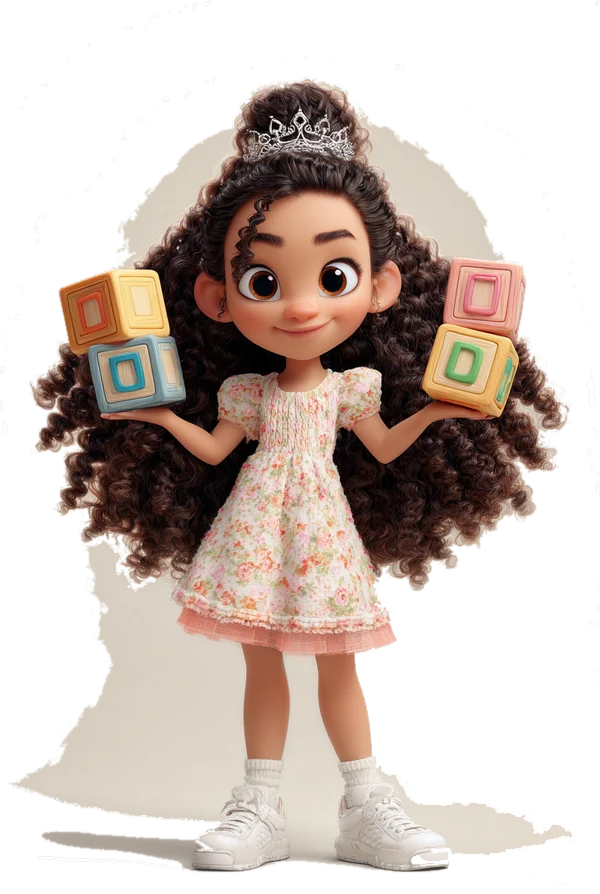
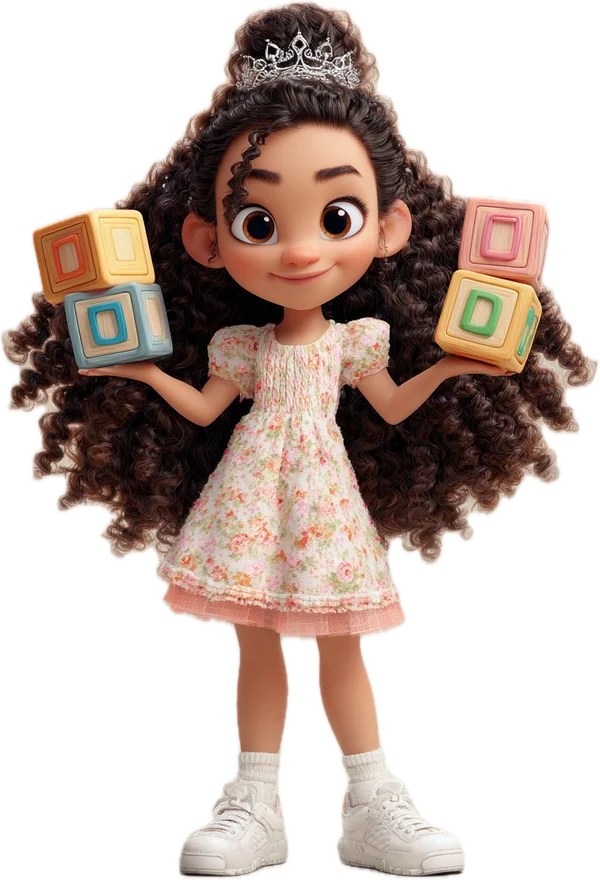
Refaz os 14 recortes da Lara com o Vision da Apple
O método anterior (Pillow: balde de tinta + componentes conectados + limiar
de luminância) decidia o que era fundo pela COR, e por isso comia roupa
clara, deixava crosta branca no cabelo e sobra de chão nos pés. Não é
ajustável por parâmetro — o método não sabe o que é sujeito.

Troca por VNGenerateForegroundInstanceMaskRequest (Vision), o mesmo motor
do "Remover Fundo" do Preview. Alfa suave, fio de cabelo preservado, roda
local em ~1 s por imagem.

- Origem de cada imagem reencontrada nas brutas por correlação de pixel
  (silhueta não serve: variações do mesmo prompt têm silhueta idêntica)
- Todas reconstruídas a 880px de altura, corte justo no sujeito
- img/ vai de 2,7 MB para 2,9 MB
- Ressalva: em lara-espaco2 o Vision descartou o planeta; ela ficou sozinha
- ferramentas/recorte.py e docs/RECORTE.md para refazer quando precisar

diff --git a/sw.js b/sw.js
@@ -1,7 +1,7 @@
 /* Service worker — o app abre offline e se atualiza sozinho.
    Estratégia: entrega o que está em cache na hora (rápido pra criança)
    e, em paralelo, baixa a versão nova pro próximo abrir. */
-var CACHE = 'mundo-da-lara-v21';
+var CACHE = 'mundo-da-lara-v22';
 var ARQUIVOS = [
   './',
   'index.html',

diff --git a/ferramentas/recorte.py b/ferramentas/recorte.py
@@ -1,0 +1,53 @@
+"""Recorte por Vision (Apple) — mesmo motor do 'Remover Fundo' do Preview.
+Devolve um alfa suave, com fio de cabelo, em vez de balde de tinta."""
+import sys, ctypes
+import Vision, Quartz
+from Foundation import NSURL
+from PIL import Image
+
+def matte(caminho):
+    url = NSURL.fileURLWithPath_(caminho)
+    handler = Vision.VNImageRequestHandler.alloc().initWithURL_options_(url, {})
+    req = Vision.VNGenerateForegroundInstanceMaskRequest.alloc().init()
+    ok, err = handler.performRequests_error_([req], None)
+    if not ok: raise RuntimeError('Vision falhou: %s' % err)
+    res = req.results()
+    if not res: raise RuntimeError('nenhum sujeito encontrado')
+    obs = res[0]
+    buf, err = obs.generateScaledMaskForImageForInstances_fromRequestHandler_error_(
+        obs.allInstances(), handler, None)
+    if buf is None: raise RuntimeError('mascara falhou: %s' % err)
+
+    Quartz.CVPixelBufferLockBaseAddress(buf, 1)
+    try:
+        w = Quartz.CVPixelBufferGetWidth(buf)
+        h = Quartz.CVPixelBufferGetHeight(buf)
+        stride = Quartz.CVPixelBufferGetBytesPerRow(buf)
+        fmt = Quartz.CVPixelBufferGetPixelFormatType(buf)
+        base = Quartz.CVPixelBufferGetBaseAddress(buf)
+        raw = bytes(base.as_buffer(stride * h))
+    finally:
+        Quartz.CVPixelBufferUnlockBaseAddress(buf, 1)
+
+    if fmt == 1278226534:                        # 'L00f' OneComponent32Float
+        import array
+        linhas = []
+        for y in range(h):
+            a = array.array('f'); a.frombytes(raw[y*stride:y*stride + w*4])
+            linhas.append(bytes(0 if v <= 0 else (255 if v >= 1 else int(v*255+.5)) for v in a))
+        m = Image.frombytes('L', (w, h), b''.join(linhas))
+    elif fmt == 1278226488:                      # 'L008' OneComponent8
+        m = Image.frombytes('L', (w, h), b''.join(raw[y*stride:y*stride+w] for y in range(h)))
+    else:
+        raise RuntimeError('formato de pixel inesperado: %s' % fmt)
+    return m, fmt
+
+if __name__ == '__main__':
+    origem, destino = sys.argv[1], sys.argv[2]
+    m, fmt = matte(origem)
+    base = Image.open(origem).convert('RGBA')
+    if m.size != base.size:
+        m = m.resize(base.size, Image.LANCZOS)
+    base.putalpha(m)
+    base.save(destino)
+    print('%s  fmt=%s  %s' % (destino.split('/')[-1], fmt, base.size))

diff --git a/docs/RECORTE.md b/docs/RECORTE.md
@@ -1,0 +1,34 @@
+# Recorte de fundo — como refazer
+
+Use o **Vision da Apple** (`VNGenerateForegroundInstanceMaskRequest`), o mesmo
+motor do "Remover Fundo" do Preview e do apertar-e-arrastar do iPhone. Roda
+local, ~1 s por imagem, não envia imagem nenhuma pra internet.
+
+```bash
+python3 -m venv venv
+./venv/bin/pip install pyobjc-framework-Vision pyobjc-framework-Quartz pillow
+./venv/bin/python recorte.py entrada.png saida.png
+```
+
+O script está em `ferramentas/recorte.py`. Ele devolve um alfa **suave** —
+fio de cabelo com meio-tom — em vez de recorte duro.
+
+## O que NÃO usar
+
+Balde de tinta (`ImageDraw.floodfill`), componentes conectados e limiar de
+luminância no Pillow. Foi o método usado até 2026-08-27 e produzia, sempre:
+
+- crosta branca em volta do cabelo (o balde para onde a cor muda)
+- pedaço de roupa clara comido (vestido branco em fundo branco é indistinguível por cor)
+- sombra de chão sobrando embaixo dos pés
+- borda serrilhada, sem meio-tom
+
+Nenhum desses defeitos é ajustável por limiar: o método não tem como saber
+o que é sujeito. Não tente consertar por parâmetro — troque de ferramenta.
+
+## Limite conhecido
+
+O Vision decide sozinho o que é sujeito. Em `lara-espaco2` ele considerou só
+a menina e descartou o planeta em que ela pisava. Quando isso acontecer, ou
+se aceita o sujeito sozinho, ou se escolhe outra variação do mesmo prompt em
+que o objeto encosta no personagem (aí Vision trata os dois como uma peça só).
